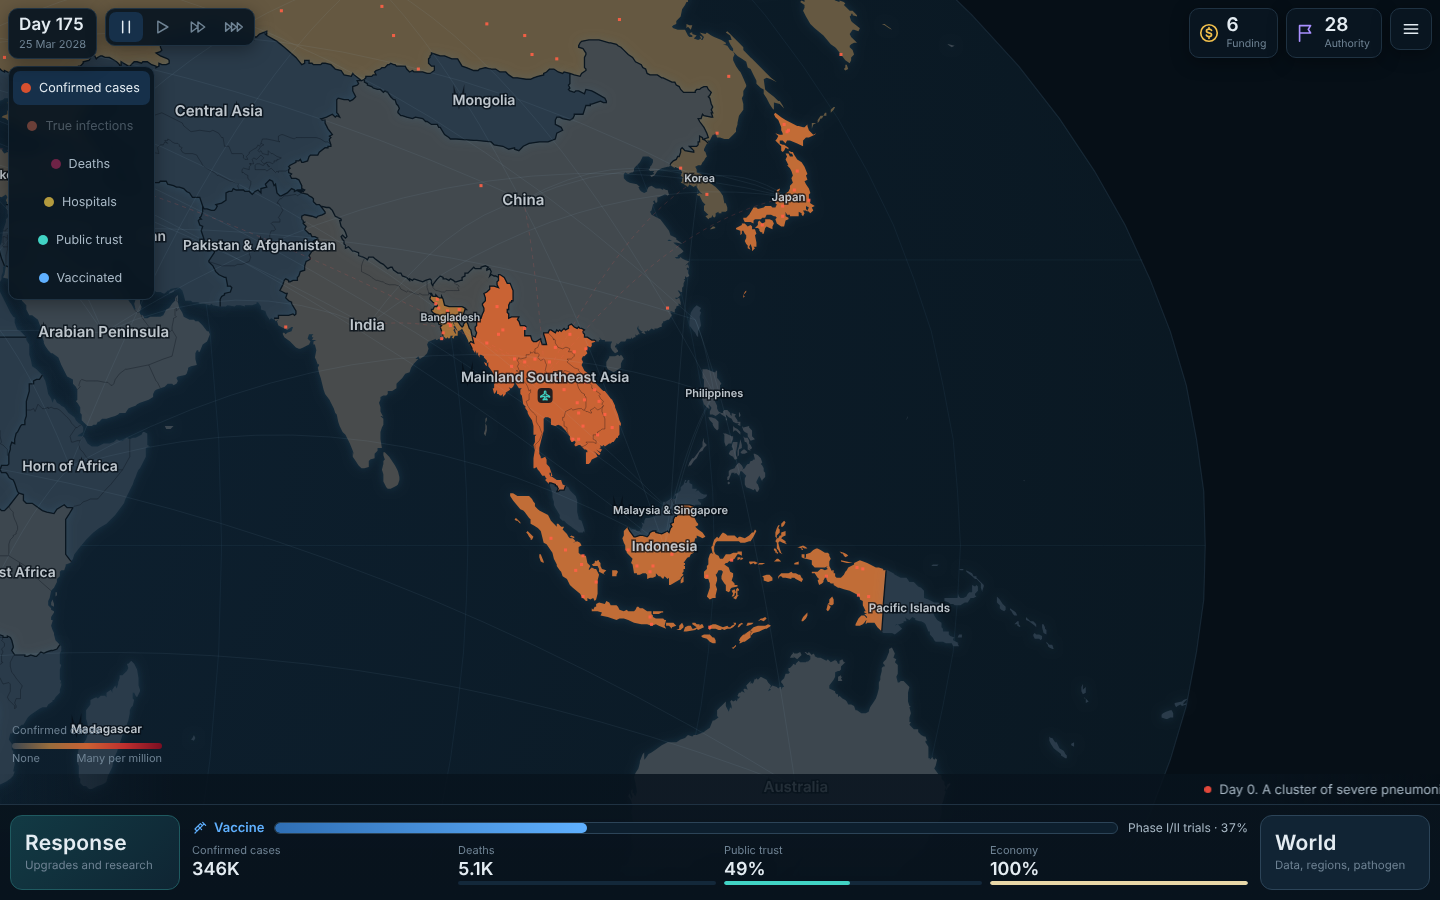
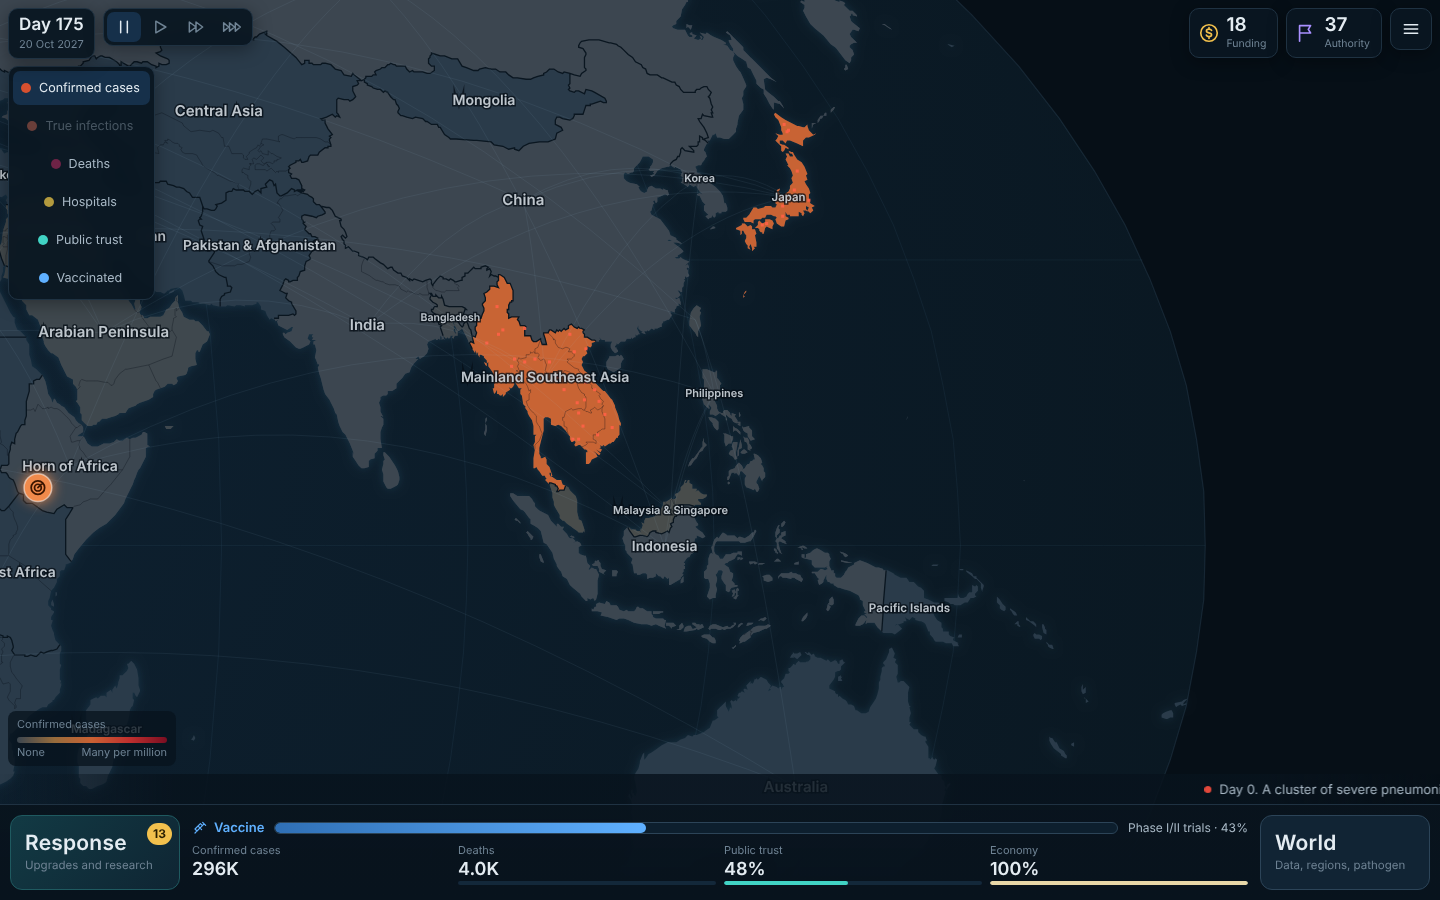
Containment: final balance pass, phone layout and render fixes
- Tune difficulty so an idle player loses, Recruit is winnable by a
  casual player and Hardened is a fight even for the scripted expert
- The adversary now waits until it is widespread before going lethal
- Landscape and portrait phone layouts for the tech tree and panels
- One blurred coastline pass, skipped mid-gesture, for smoother panning
- Headline milestones, variant selection reasons, fewer interruptions

Claude-Session: https://claude.ai/code/session_01NRe1j8U83UYEwruhxCdPBu

diff --git a/games/containment/index.html b/games/containment/index.html
@@ -658,7 +658,7 @@ const DIFFICULTY = {
     id: 'hardened', name: 'Hardened',
     blurb: 'Silent spread before day one, an adversary that reads your strategy, and no margin for waste.',
     funding: 11, authority: 7, income: .9, auth: 1, research: 1, evo: 1.3, aiSharp: 4, silentSeeds: 2,
-    detect: 6, trustDecay: 1.25, deathLimit: 1, eventHarm: 1.3, hoard: 1.25, bubble: .85,
+    detect: 6, trustDecay: 1.25, deathLimit: 1.1, eventHarm: 1.3, hoard: 1.25, bubble: .85,
   },
 };
 
@@ -679,8 +679,8 @@ const PATHOGENS = [
   {
     id: 'flu', name: 'Pandemic Influenza', kind: 'Respiratory virus', mode: 'respiratory', drug: 'antiviral',
     blurb: 'Short incubation, explosive winters, and a genome that drifts. Vaccines come quickly; keeping them current does not.',
-    R0: 2.4, inc: 2, inf: 4.5, ifr: .006, hosp: .035, asym: .28, season: .42, heatPen: .35, coldPen: 0,
-    vax: 1.55, waning: 1 / 420, evo: 1.35, air: 1.1, land: 1, sea: .5, maskEff: 1, traceEff: .6, panic: 1, deathScale: 1,
+    R0: 2.4, inc: 2, inf: 4.5, ifr: .006, hosp: .035, asym: .28, season: .42, heatPen: .25, coldPen: 0,
+    vax: 1.55, waning: 1 / 420, evo: 1.35, air: 1.1, land: 1, sea: .5, maskEff: 1, traceEff: .6, panic: 1, deathScale: .8,
     seed: 80, unlockedBy: null,
   },
   {
@@ -1811,8 +1811,9 @@ class Game {
     for (const r of this.R) {
       const N = r.meta.pop;
       w += N;
-      if (r.st.cumInf > 0) coverage += N;
-      else { if (r.meta.heat < .4) coldFree += N; if (r.meta.heat > .6) hotFree += N; }
+      // 'Covered' means genuinely widespread, so the adversary goes lethal late, the way a Plague Inc player would.
+      if (r.st.cumInf > N * .01) coverage += N;
+      if (r.st.cumInf < 1) { if (r.meta.heat < .4) coldFree += N; if (r.meta.heat > .6) hotFree += N; }
       det += this.reportFrac(r) * N;
       let keep = 1; for (const id in r.st.m) { const m = MEASURE[id]; if (m.eff) keep *= 1 - m.eff; }
       if (r.st.m.masks != null || r.st.m.distancing != null) maskShare += N;
@@ -2276,6 +2277,7 @@ const DOTS = geoIdx.map(k => MAP.regions[k].dots);
 const AREA = geoIdx.map(k => MAP.regions[k].a);
 const P_SPHERE = new Path2D(MAP.sphere), P_GRAT = new Path2D(MAP.grat), P_NEUTRAL = new Path2D(MAP.neutral);
 const P_BORDERS = new Path2D(MAP.borders), P_INNER = new Path2D(MAP.inner);
+const P_LAND = new Path2D(); PATHS.forEach(p => P_LAND.addPath(p));
 
 // ---------------------------------------------------------------------------
 //  Map
@@ -2372,11 +2374,13 @@ function drawBase() {
   b.strokeStyle = 'rgba(120,170,210,.07)'; b.lineWidth = lw; b.stroke(P_GRAT);
   b.strokeStyle = 'rgba(120,170,210,.12)'; b.lineWidth = 1.2 * lw; b.stroke(P_SPHERE);
   b.fillStyle = '#25333f'; b.fill(P_NEUTRAL);
-  // Faint coastal glow.
-  b.save(); b.shadowColor = 'rgba(80,150,190,.18)'; b.shadowBlur = 10 * dpr;
-  if (g) for (const r of g.R) { b.fillStyle = regionFill(g, r); b.fill(PATHS[r.i]); }
-  else for (let i = 0; i < PATHS.length; i++) { b.fillStyle = LAND; b.fill(PATHS[i]); }
+  // Faint coastal glow: one blurred pass for all land, since blur is the expensive part.
+  // Skipped mid-gesture to keep panning smooth on phones.
+  const moving = (drag && moved > 6) || pinch;
+  b.save(); if (!moving) { b.shadowColor = 'rgba(80,150,190,.18)'; b.shadowBlur = 10 * dpr; }
+  b.fillStyle = LAND; b.fill(P_LAND);
   b.restore();
+  if (g) for (const r of g.R) { const f = regionFill(g, r); if (f !== LAND) { b.fillStyle = f; b.fill(PATHS[r.i]); } }
   if (g && UI.picking && UI.hover >= 0) { b.fillStyle = 'rgba(65,211,196,.35)'; b.fill(PATHS[UI.hover]); }
   b.strokeStyle = 'rgba(6,14,21,.45)'; b.lineWidth = .7 * lw; b.stroke(P_INNER);
   b.strokeStyle = '#0a1620'; b.lineWidth = 1.3 * lw; b.stroke(P_BORDERS);
@@ -2621,8 +2625,8 @@ canvas.addEventListener('pointermove', e => {
 const endPtr = e => {
   const wasTap = ptrs.size === 1 && moved <= 6 && !pinch;
   ptrs.delete(e.pointerId);
-  if (ptrs.size < 2) pinch = null;
-  if (ptrs.size === 0) drag = null;
+  if (ptrs.size < 2 && pinch) { pinch = null; baseDirty = true; }
+  if (ptrs.size === 0) { if (drag && moved > 6) baseDirty = true; drag = null; }
   if (wasTap && e.type === 'pointerup') tap(e.clientX, e.clientY);
 };
 canvas.addEventListener('pointerup', endPtr);

diff --git a/games/containment/README.md b/games/containment/README.md
@@ -6,6 +6,8 @@ region of the world, and you run the global response: find it, slow it, treat
 it and vaccinate against it before it outruns you. The pathogen adapts to
 whatever you do.
 
+![A response in progress: lockdowns, flight suspensions and the vaccine race](shots/desktop-region.png)
+
 Like [Frontline 1944](../frontline-1944/), the whole game is one
 self-contained file, `index.html`. It needs no assets, no dependencies, no build
 step and no network. The map is embedded vector data, everything is drawn on a
